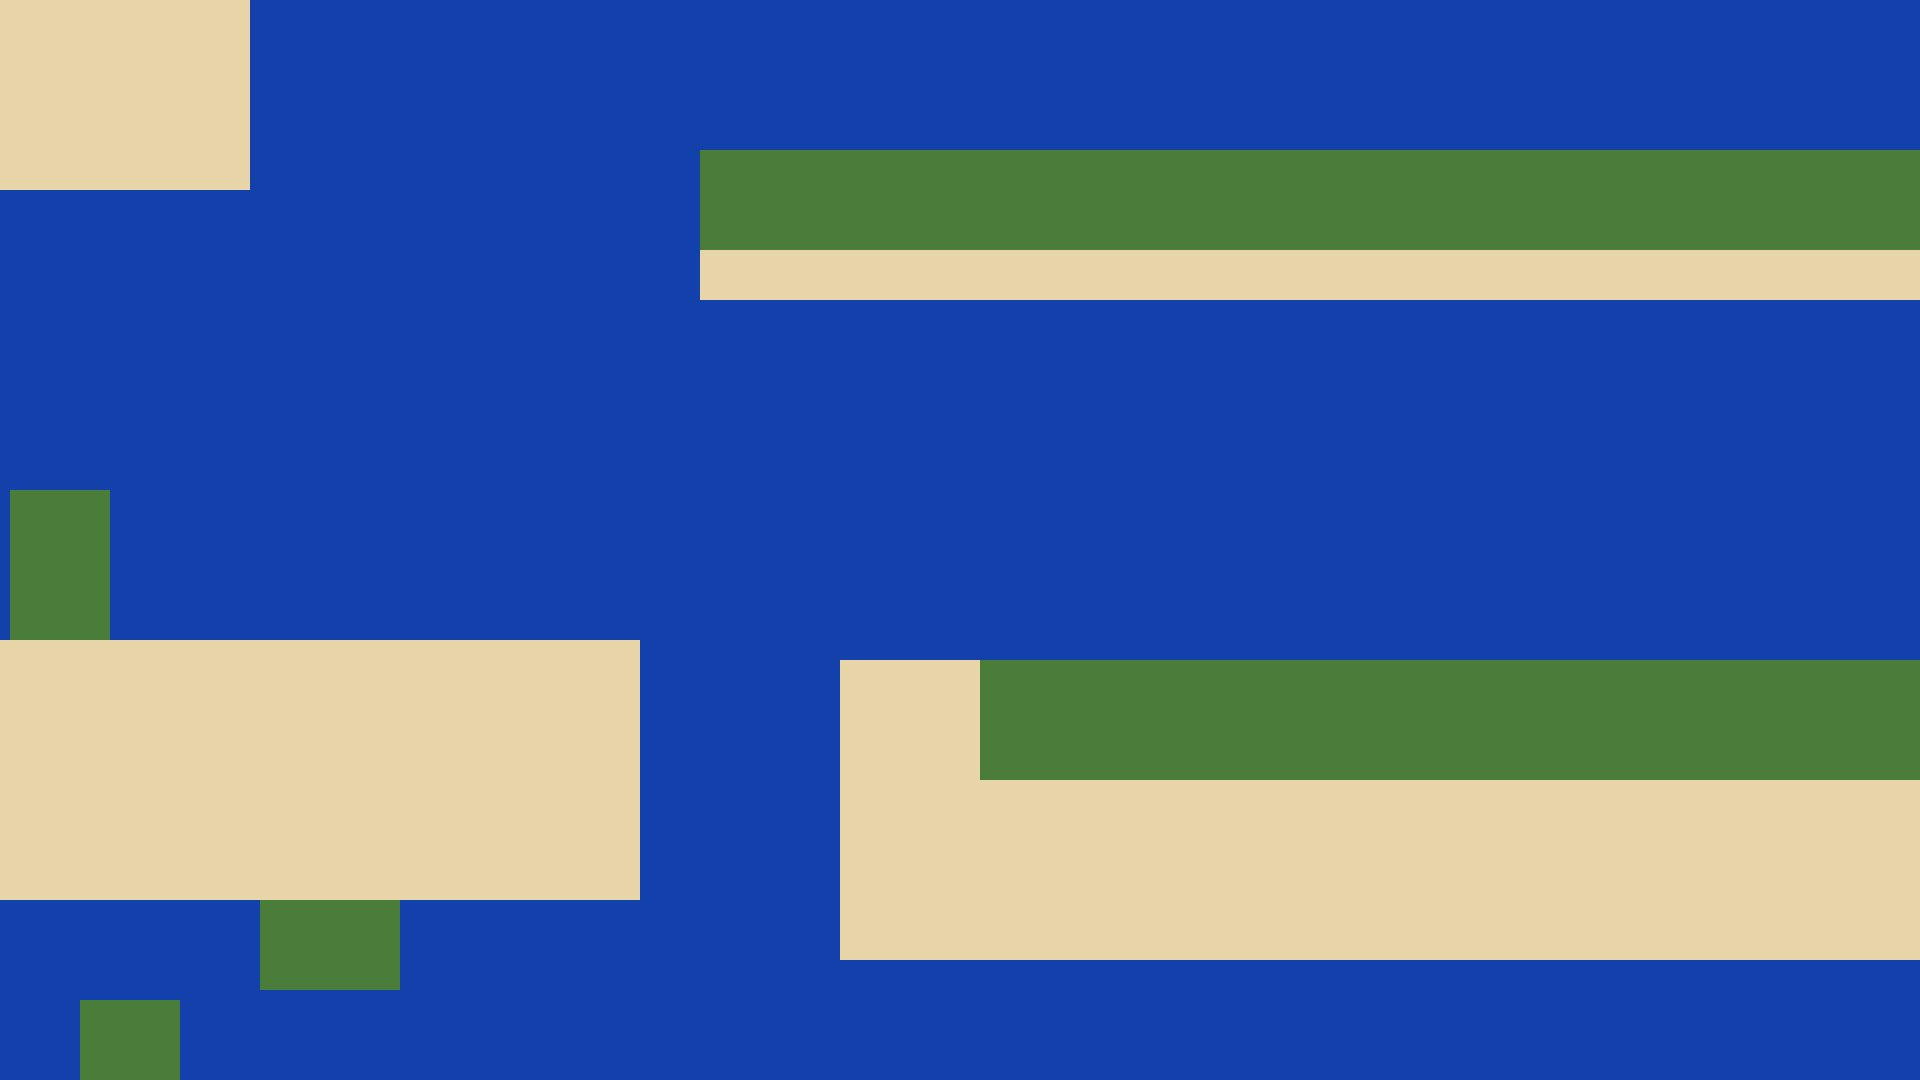
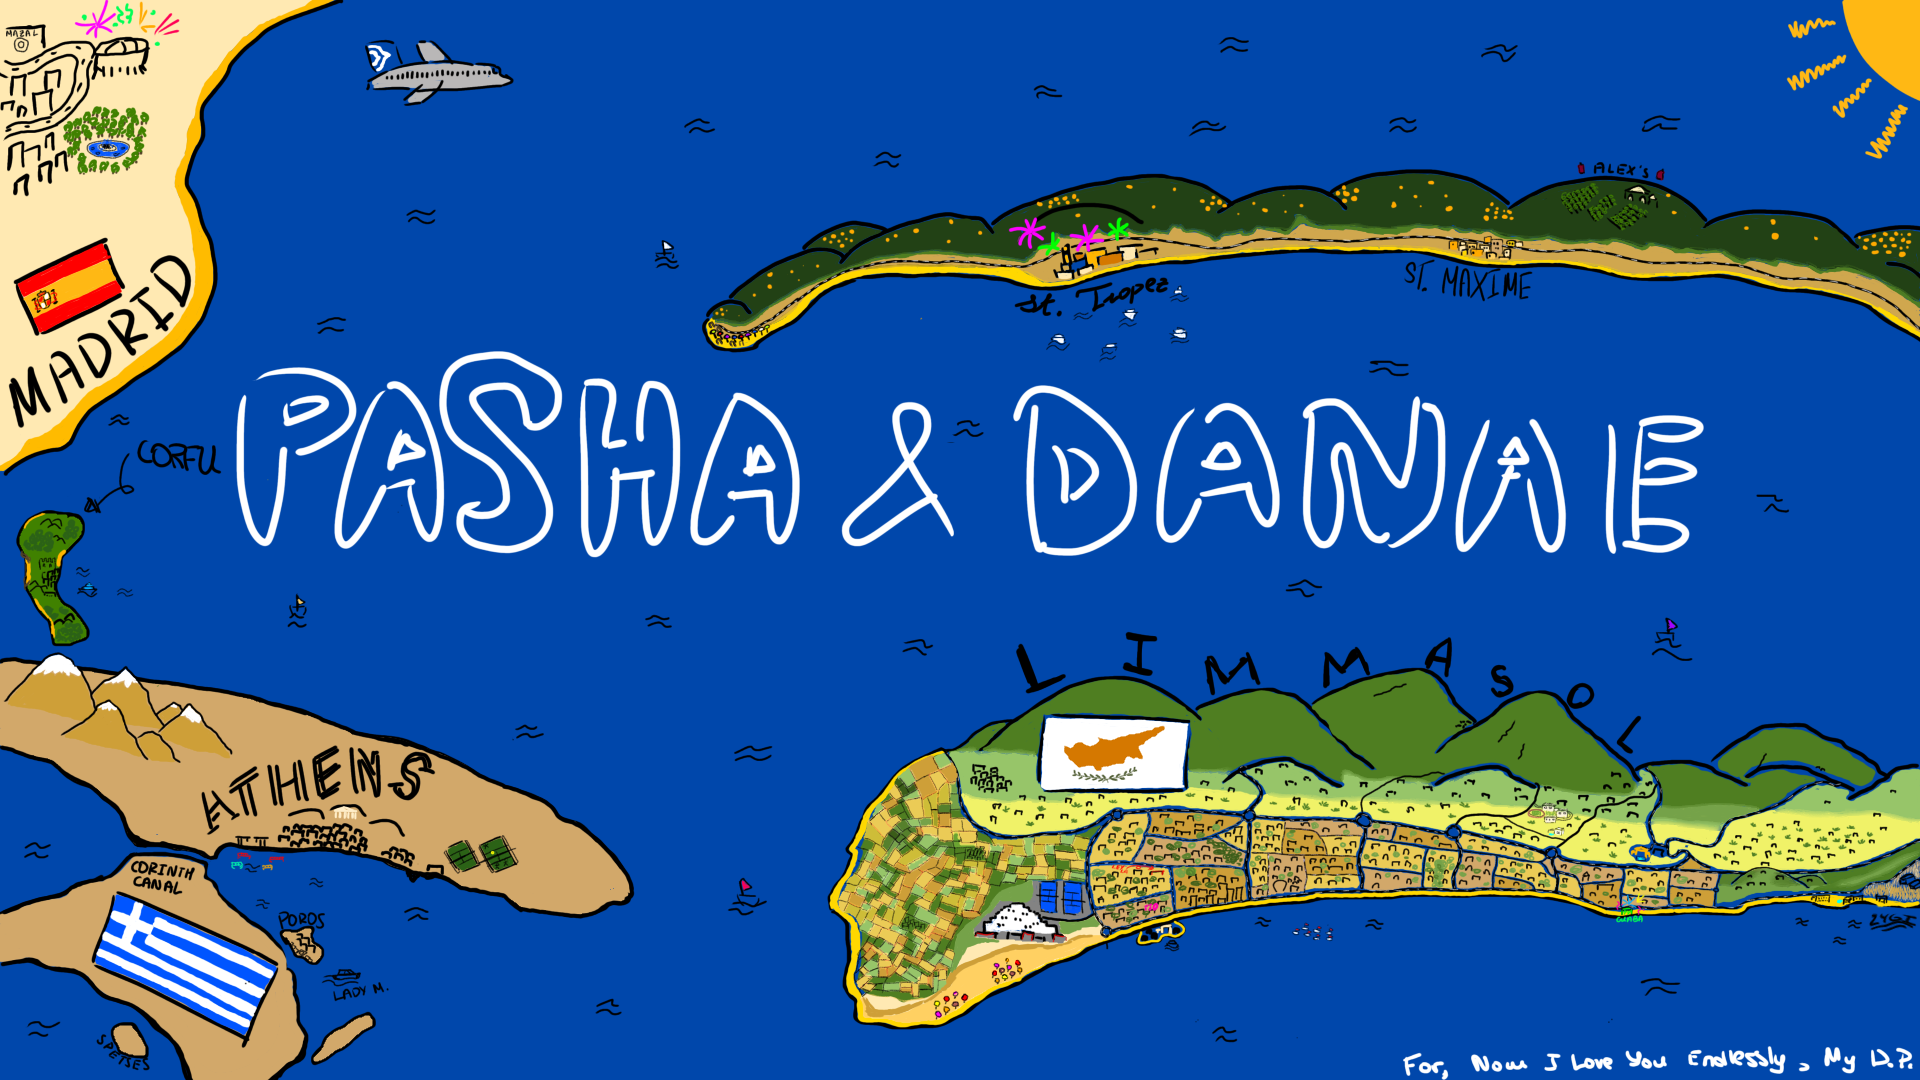
Install the real map artwork
The drawing arrived as "Correct image.png", which sits alongside world.png
rather than replacing it, so the site went on serving the placeholder. Renamed
it to the filename the page actually requests. It is a true 1920x1080, so
every dot lands where its percentage says it should.

The numbered version has not arrived yet, so the placeholder standing in for it
is removed rather than left to masquerade as the real guide. The admin panel
now loads that image only when the tick-box is used, and if it is missing it
greys the box out and says which file to upload — instead of silently laying a
wrong picture over the map.

The three dots with no number to sit on (30-32) move off the title lettering
into open sea, where they are easy to see and drag into place.

Claude-Session: https://claude.ai/code/session_0186kXPMQVHqNmaZVXe4mRoJ

diff --git a/web/js/admin.js b/web/js/admin.js
@@ -320,8 +320,22 @@
     syncCoords();
   });
 
+  /* The numbered drawing is loaded only when asked for, so the admin panel
+     doesn't 404 on every visit while that file is still missing. */
   $('#showNumbers').addEventListener('change', (e) => {
-    $('#placeMapNum').hidden = !e.target.checked;
+    const img = $('#placeMapNum');
+    if (!e.target.checked) { img.hidden = true; return; }
+    if (!img.src) img.src = img.dataset.src;
+    img.hidden = false;
+  });
+
+  $('#placeMapNum').addEventListener('error', () => {
+    $('#placeMapNum').hidden = true;
+    $('#showNumbers').checked = false;
+    $('#showNumbers').disabled = true;
+    const warn = $('#numWarn');
+    warn.textContent = 'world-numbered.png is not in web/art/ yet — upload it to line the dots up against your numbers.';
+    warn.hidden = false;
   });
 
   /* ---------------- save / backup ---------------- */

diff --git a/web/admin.html b/web/admin.html
@@ -56,11 +56,12 @@
       <label><input type="checkbox" id="showNumbers"> Show my numbered drawing underneath</label>
       <button id="addBtn2" class="addbtn addbtn--inline" type="button">+ Add a dot</button>
       <span class="place__hint">Drag any dot to move it, or pick one below and click the map.</span>
+      <span id="numWarn" class="place__warn" hidden></span>
     </div>
     <div id="placeWrap">
       <div id="placeCanvas">
         <img id="placeMap" src="art/world.png" alt="">
-        <img id="placeMapNum" src="art/world-numbered.png" alt="" hidden>
+        <img id="placeMapNum" data-src="art/world-numbered.png" alt="" hidden>
         <div id="placeMarkers"></div>
       </div>
     </div>

diff --git a/web/css/admin.css b/web/css/admin.css
@@ -122,6 +122,10 @@ label input:focus, label textarea:focus{ outline:none; border-color:var(--accent
 .place__bar{ display:flex; align-items:center; gap:18px; flex-wrap:wrap; margin-bottom:12px; font-size:14px; }
 .place__bar label{ margin:0; font-weight:500; display:flex; align-items:center; gap:7px; color:var(--ink); }
 .place__hint{ color:#778; }
+.place__warn{
+  padding:5px 11px; border-radius:6px;
+  background:#fdecef; color:#c0243c; font-size:13px;
+}
 #placeWrap{ background:#1341ab; border-radius:10px; overflow:hidden; }
 #placeCanvas{ position:relative; aspect-ratio:1920/1080; cursor:crosshair; }
 #placeCanvas img{ position:absolute; inset:0; width:100%; height:100%; object-fit:contain; }

diff --git a/README.md b/README.md
@@ -14,13 +14,17 @@ changes appear on the live site straight away.
 Two files go into the `web/art/` folder. **The names must match exactly** —
 lowercase, with `.png` on the end:
 
-| Filename | What it is | Who sees it |
-| --- | --- | --- |
-| `world.png` | The clean drawing, no numbers | Everyone — this is the map |
-| `world-numbered.png` | The same drawing with your pink numbers | Only you, inside the admin panel |
+| Filename | What it is | Who sees it | Status |
+| --- | --- | --- | --- |
+| `world.png` | The clean drawing, no numbers | Everyone — this is the map | ✅ in place |
+| `world-numbered.png` | The same drawing with the pink numbers | Only you, inside the admin panel | ⬜ still needed |
 
-Placeholder versions of both are already committed, so the site runs today.
-You are replacing them, not adding alongside them.
+**The filename is what matters, not the file.** Uploading a drawing under any
+other name (`Correct image.png`, `map final.png`) adds a file the site never
+looks at — it must be named `world.png`, sitting in `web/art/`.
+
+Until `world-numbered.png` is uploaded, the *Show my numbered drawing
+underneath* tick-box in the admin panel greys itself out and says so.
 
 ### Requirements
 
